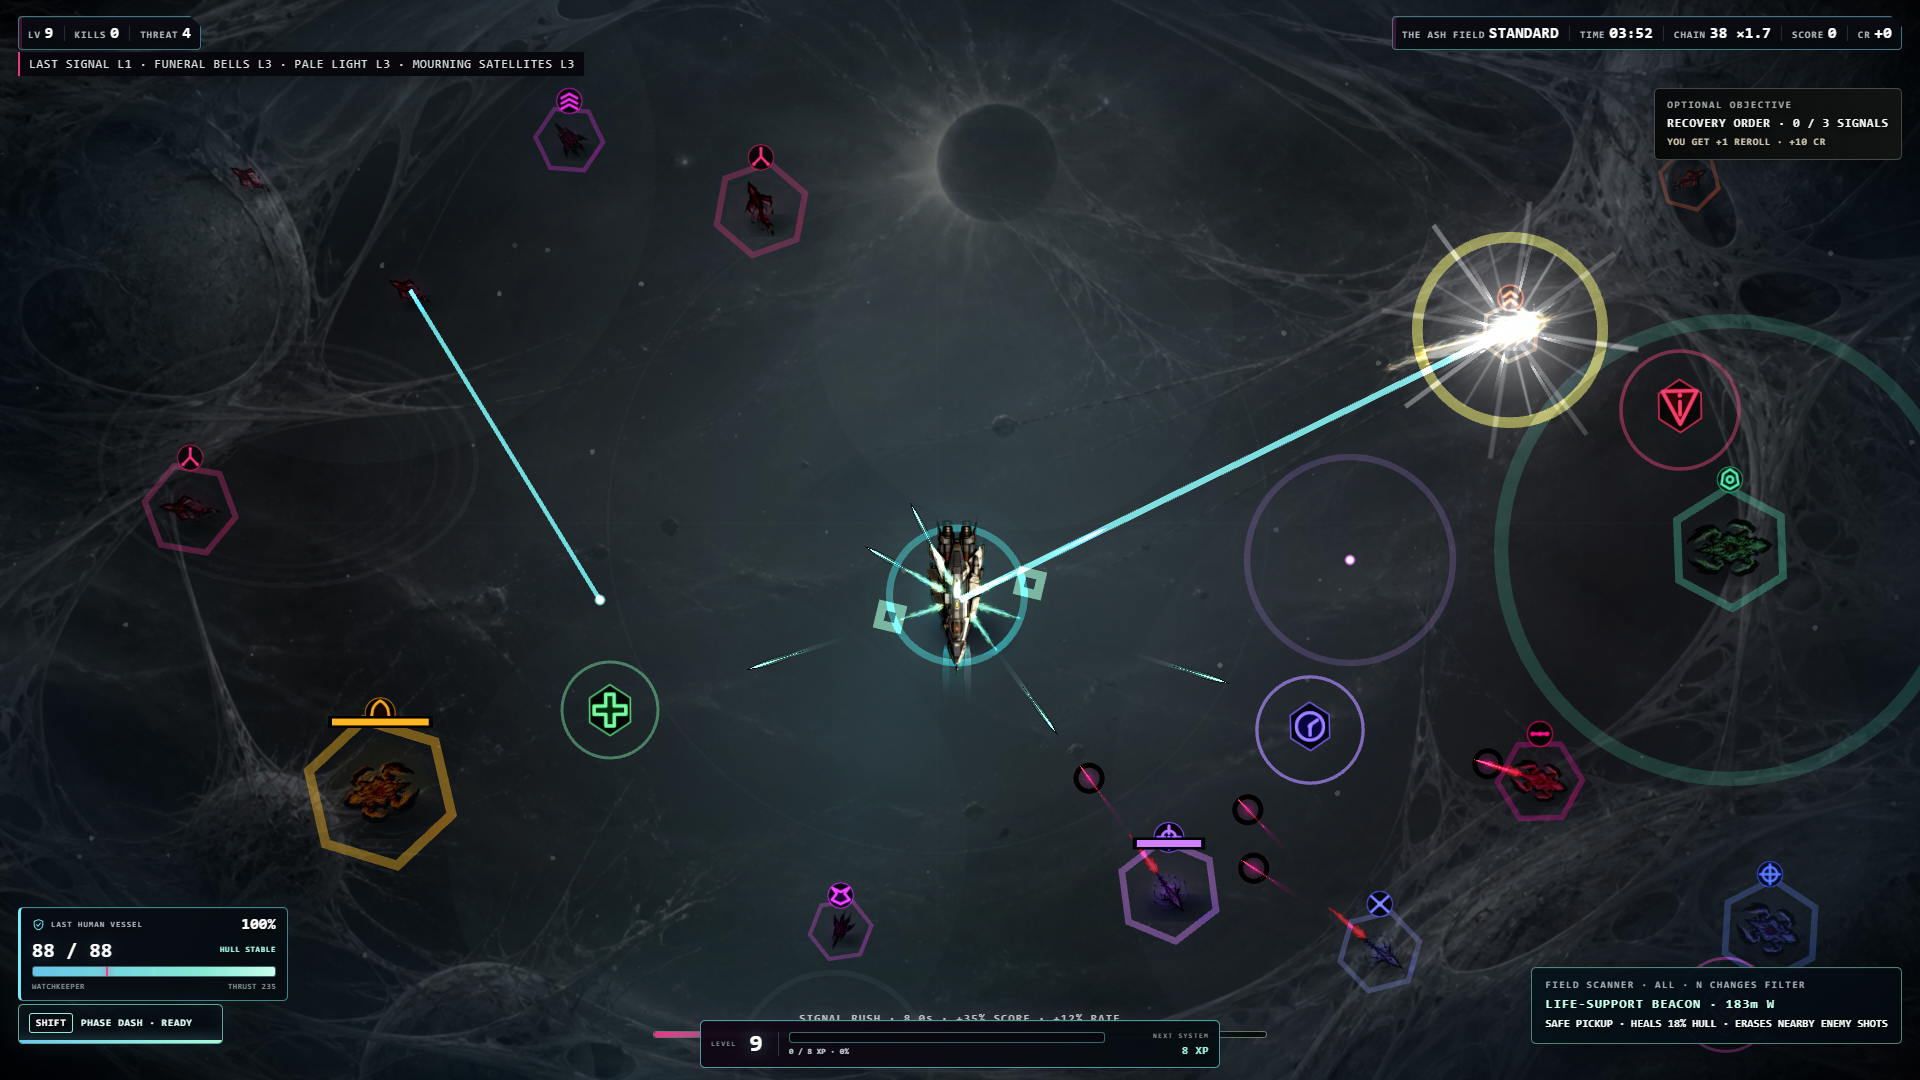
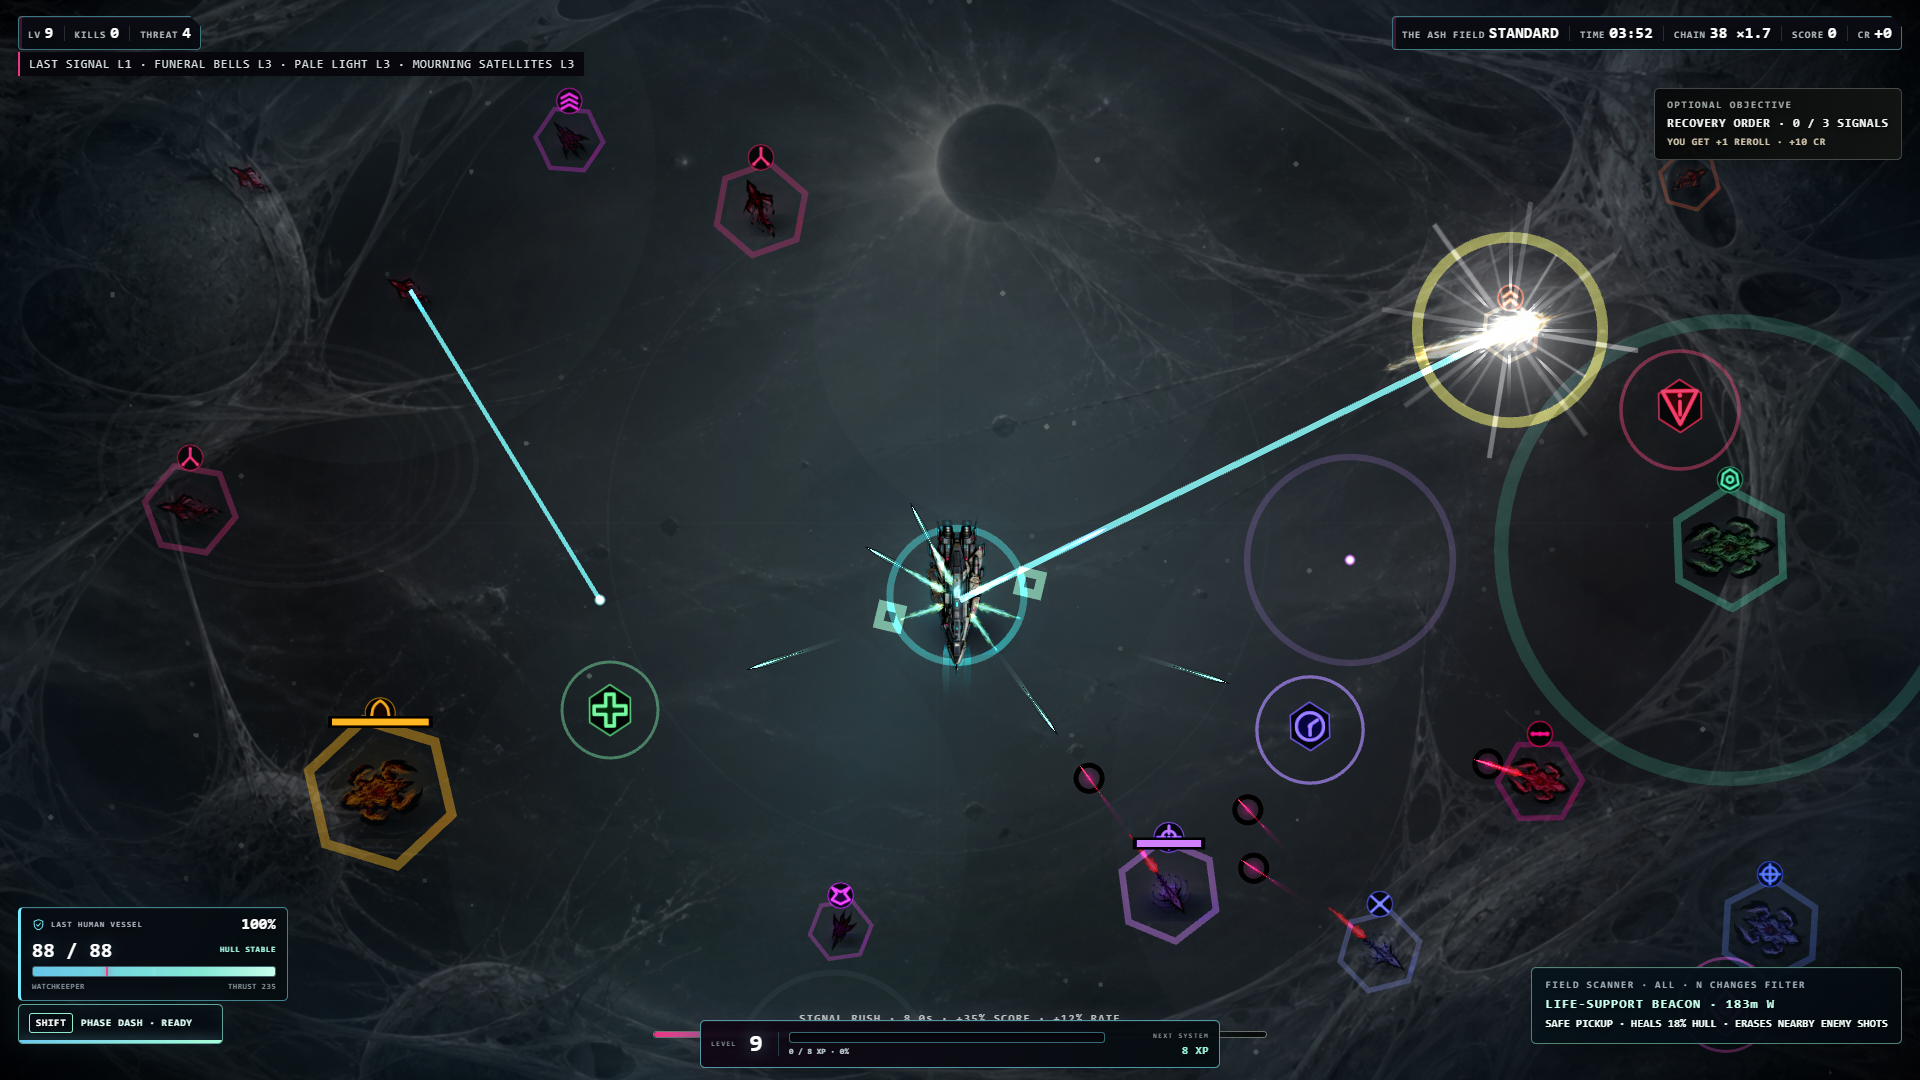
feat: align player vessel with combat palette

diff --git a/game.js b/game.js
@@ -68,7 +68,7 @@ const ARCHIVE_FRAGMENTS=[
 ];
 const ENGINE_ASSETS={
   backgrounds:{deep:'assets/visuals/background-dead-universe-v1.png',pulsar:'assets/visuals/background-dead-universe-v1.png',rift:'assets/visuals/background-alien-veil-v1.png',eclipse:'assets/visuals/background-dead-universe-v1.png',graveyard:'assets/visuals/background-alien-veil-v1.png',supernova:'assets/visuals/background-alien-veil-v1.png'},
-  player:'assets/visuals/player-last-ark-v1.png',
+  player:'assets/visuals/player-last-ark-v2.png',
   enemies:{scout:'assets/visuals/enemy-void-larva-v1.png',charger:'assets/visuals/enemy-void-larva-v1.png',tank:'assets/visuals/enemy-ossuary-v1.png',gunner:'assets/visuals/enemy-ossuary-v1.png',splitter:'assets/visuals/enemy-void-larva-v1.png',sniper:'assets/visuals/enemy-witness-v1.png',stalker:'assets/visuals/enemy-hunter-v2.png',weaver:'assets/visuals/enemy-witness-v1.png',warden:'assets/visuals/enemy-ossuary-v1.png',reaper:'assets/visuals/enemy-hunter-v2.png',harrower:'assets/visuals/enemy-witness-v1.png',moth:'assets/visuals/enemy-hunter-v2.png',anchor:'assets/visuals/enemy-ossuary-v1.png'},
   boss:'assets/visuals/boss-conquest-leviathan-v1.png',
   audio:{
@@ -431,11 +431,11 @@ function checkMetaAchievements(){
 
 // ---------- MENU / SETTINGS ----------
 const HANGAR_PALETTES={
-  striker:{main:'#d8ded8',edge:'#087f86',accent:'#32eee0'},bastion:{main:'#d6ccb4',edge:'#8f5d25',accent:'#ffae32'},
-  wraith:{main:'#d4c1c9',edge:'#852951',accent:'#ff357f'},specter:{main:'#cbd1b8',edge:'#5f7d29',accent:'#b9f447'},
-  bulwark:{main:'#d7c8b8',edge:'#9a492e',accent:'#ff7045'},oracle:{main:'#c8c2d3',edge:'#694d8d',accent:'#a873ff'},
-  vector:{main:'#d6bcc6',edge:'#9c234c',accent:'#ff236d'},talon:{main:'#d5c8ae',edge:'#8d6925',accent:'#ffc13d'},
-  halo:{main:'#cabfd3',edge:'#6d438c',accent:'#c167ff'},event:{main:'#c5d0cc',edge:'#13727b',accent:'#29e4f2'}
+  striker:{main:'#aeb9bc',edge:'#167f86',accent:'#35efff'},bastion:{main:'#a8b1ae',edge:'#356f6d',accent:'#67d6c0'},
+  wraith:{main:'#aaaeb7',edge:'#852951',accent:'#ff357f'},specter:{main:'#a7b5b3',edge:'#286e72',accent:'#4fd0c6'},
+  bulwark:{main:'#adb0b4',edge:'#77374b',accent:'#ff5a70'},oracle:{main:'#aaa9b8',edge:'#604b87',accent:'#a873ff'},
+  vector:{main:'#adb0b8',edge:'#8c2855',accent:'#ff236d'},talon:{main:'#a9b4ba',edge:'#256a7f',accent:'#62deff'},
+  halo:{main:'#aaa9b7',edge:'#65468a',accent:'#c167ff'},event:{main:'#a8b6b7',edge:'#176b75',accent:'#29e4f2'}
 };
 const HANGAR_HULL_ASSET=ENGINE_ASSETS.player;
 let hangarHullImage=null,hangarHullImageReady=false,hangarHullImageFailed=false,hangarHullRefreshQueued=false;
@@ -827,7 +827,7 @@ $('briefingMenuBtn').onclick=previewPilotBriefing;
 function startRun(){
   cancelResumeCountdown(false);
   const frame=SHIPS[save.selected],diff=DIFFICULTIES[save.difficulty]||DIFFICULTIES.STANDARD,contract=CONTRACTS[save.contract]||CONTRACTS.NONE,sector=SECTORS[save.sector]||SECTORS.AURORA,now=performance.now(),mastery=masteryLevel(save.selected),directiveId=selectFieldDirective();
-  const p={x:W/2,y:H/2,r:10,baseSpeed:frame.speed,speed:frame.speed,baseHp:frame.hp,maxHp:frame.hp,hp:frame.hp,frame:save.selected,baseArmor:frame.armor,moduleArmor:0,baseDamageMul:frame.damage,damageMul:frame.damage,baseCooldownMul:1/frame.fire,cooldownMul:1/frame.fire,projectileMul:1,baseCrit:frame.crit,crit:frame.crit,critDamageBonus:0,magnet:78,baseMagnet:78,convertChance:0,allyCap:0,allyLifeMul:1,allyDamageMul:1,allyFireMul:1,allyExplosion:0,areaMul:1,specialMul:1,extraProjectiles:0,hitFlash:0,iFrames:0,incomingMul:1,scoreMul:1,creditMul:1,cacheLuck:0,grazeRadius:13,blackBox:false,grazeOverclock:false,deadReckoning:false,weaponMul:{},iffDoctrine:1,overdriveDurationMul:1,brink:false,trait:frame.trait,reactiveCooldown:0,droneBonus:0,moving:false,dashCooldown:0,dashFx:0,dashFromX:W/2,dashFromY:H/2,dashToX:W/2,dashToY:H/2,weaponKick:0,weaponAngle:-Math.PI/2,_lastMoveX:0,_lastMoveY:-1};
+  const framePalette=hangarShipPalette(save.selected),p={x:W/2,y:H/2,r:10,baseSpeed:frame.speed,speed:frame.speed,baseHp:frame.hp,maxHp:frame.hp,hp:frame.hp,frame:save.selected,visualAccent:framePalette.accent,visualEdge:framePalette.edge,baseArmor:frame.armor,moduleArmor:0,baseDamageMul:frame.damage,damageMul:frame.damage,baseCooldownMul:1/frame.fire,cooldownMul:1/frame.fire,projectileMul:1,baseCrit:frame.crit,crit:frame.crit,critDamageBonus:0,magnet:78,baseMagnet:78,convertChance:0,allyCap:0,allyLifeMul:1,allyDamageMul:1,allyFireMul:1,allyExplosion:0,areaMul:1,specialMul:1,extraProjectiles:0,hitFlash:0,iFrames:0,incomingMul:1,scoreMul:1,creditMul:1,cacheLuck:0,grazeRadius:13,blackBox:false,grazeOverclock:false,deadReckoning:false,weaponMul:{},iffDoctrine:1,overdriveDurationMul:1,brink:false,trait:frame.trait,reactiveCooldown:0,droneBonus:0,moving:false,dashCooldown:0,dashFx:0,dashFromX:W/2,dashFromY:H/2,dashToX:W/2,dashToY:H/2,weaponKick:0,weaponAngle:-Math.PI/2,_lastMoveX:0,_lastMoveY:-1};
   applyResearchToPlayer(p);p.baseSpeed*=1.06*(contract.playerSpeed||1);p.speed=p.baseSpeed;p.baseHp*=contract.hull||1;p.baseHp*=sector.hull||1;p.maxHp=p.baseHp;p.hp=p.maxHp;p.baseCrit+=contract.crit||0;p.crit=p.baseCrit;p.cacheLuck+=(contract.cacheLuck||0)+(sector.cacheLuck||0);p.grazeRadius+=sector.graze||0;p.scoreMul*=sector.score||1;if(save.selected==='bulwark'){p.droneBonus=1;p.allyCap+=1}if(save.selected==='oracle')p.iffDoctrine*=1.25;
   state={mode:'run',diff,contract,sector,sectorId:save.sector,contractId:save.contract,difficulty:save.difficulty,time:0,last:now,paused:false,choosing:false,choiceMode:'',ceremony:false,ceremonyQueue:[],enemyIntelQueue:[],enemyIntelShown:0,nextEnemyIntel:18,gameOver:false,victory:false,clearedBase:false,endless:false,ascension:0,nextEndlessBoss:0,revived:false,finalizing:false,worldX:0,worldY:0,distanceTraveled:0,generatedCells:new Set(),worldSites:[],worldNodes:[],signalFilter:'ALL',directiveId,directiveComplete:false,explorationFinds:0,archiveFragments:0,archiveOpen:false,archiveXpPending:0,hazardFinds:0,fieldBoostUntil:0,interferenceUntil:0,runCredits:0,kills:0,score:0,spawnT:0,eliteT:36,bossStage:0,level:1,xp:0,xpNeed:8,rerolls:1+(save.research.reroll||0)+(mastery>=4?1:0),skips:1+(mastery>=2?1:0),currentOffers:[],pinnedOfferKey:'',upgradeHistory:[],runCounted:false,accountedKills:0,accountedCredits:0,accountedMastery:0,accountedEndlessTime:0,accountedStats:{damageDealt:0,damageTaken:0,bossesKilled:0,grazes:0,time:0,cachesOpened:0,reliquariesOpened:0,distanceTraveled:0},masteryStartLevel:mastery,clearCounted:false,threat:1,chain:0,chainBest:0,chainTimer:0,rush:0,rushActivations:0,rushKills:0,rushBest:0,salvageSweep:0,nextBounty:65,bounty:null,nextAnomaly:115,nextSecret:(145+Math.random()*45)/(sector.secret||1),nextNemesis:350,nemesisKilled:0,redline:false,overdrive:0,driveTier:0,grazeChain:0,grazeBest:0,grazeTimer:0,grazes:0,cachesOpened:0,conversions:0,evolutions:0,doctrines:{},doctrinePicks:0,pendingLevelAfterDoctrine:false,damageDealt:0,damageTaken:0,bossesKilled:0,flawlessBosses:0,secretEvents:0,phaseRipostes:0,encounterPhase:'OPENING',spawnEncounterPhase:'OPENING',encounterIntensity:.18,encounterSurges:0,encounterWaveIndex:0,weaponDamage:{},noHit:true,newUnlocks:[],protocols:{},artifacts:{},synergies:{},hitStop:0,critFxCooldown:0,surgeUntil:0,lockedTarget:null,targetLockPulse:0,p,passives:{},weapons:{},enemies:[],bullets:[],enemyBullets:[],orbs:[],caches:[],mines:[],rifts:[],allies:[],particles:[],floaters:[],deathFx:[],impactFx:[],weaponFx:[],arcs:[],beams:[],shake:0,stars:Array.from({length:110},()=>({x:Math.random()*W,y:Math.random()*H,z:1+Math.random()*2,phase:Math.random()*Math.PI*2}))};
   state.reliquaryOpen=false;state.reliquariesOpened=0;state.timeFractureRemaining=0;state.timeFractures=0;state.fractureKills=0;state.fractureWasActive=false;state.preBossWarningStage=-1;

diff --git a/tests/smoke.js b/tests/smoke.js
@@ -3,7 +3,7 @@ const root=path.join(__dirname,'..');
 const html=fs.readFileSync(path.join(root,'index.html'),'utf8');
 const requiredAssets=[
   'assets/visuals/background-dead-universe-v1.png','assets/visuals/background-alien-veil-v1.png',
-  'assets/visuals/player-last-ark-v1.png','assets/visuals/enemy-void-larva-v1.png','assets/visuals/enemy-ossuary-v1.png','assets/visuals/enemy-witness-v1.png','assets/visuals/boss-conquest-leviathan-v1.png',
+  'assets/visuals/player-last-ark-v2.png','assets/visuals/enemy-void-larva-v1.png','assets/visuals/enemy-ossuary-v1.png','assets/visuals/enemy-witness-v1.png','assets/visuals/boss-conquest-leviathan-v1.png',
   'assets/audio/professional/lentikula/pulse-a.wav','assets/audio/professional/lentikula/pulse-b.wav','assets/audio/professional/lentikula/rail.wav','assets/audio/professional/lentikula/flak.wav','assets/audio/professional/lentikula/rift.wav','assets/audio/professional/lentikula/hostile-heavy.wav','assets/audio/professional/obsydianx/ui-confirm.wav','assets/audio/professional/obsydianx/ui-reward.wav','assets/audio/professional/opengameart/mechanical-explosion.wav','assets/audio/professional/opengameart/low-explosion.wav','assets/audio/sub_bass.wav','assets/audio/engine_loop.wav',
   'assets/audio/premium/music-exploration-space-city.mp3','assets/audio/premium/music-exploration-spirit.mp3','assets/audio/premium/music-combat-synth-wave.mp3','assets/audio/premium/music-combat-score.mp3','assets/audio/premium/music-boss-cybershaman.flac','assets/audio/premium/music-boss-xanthos.mp3','assets/audio/premium/music-last-human-dystopian-ambient.mp3'
 ];
@@ -43,6 +43,7 @@ vm.runInContext(`
   if(!document.getElementById('difficultyDesc').textContent.includes('BEST FIRST RUN')||!document.getElementById('sectorDesc').textContent.includes('STANDARD RESOURCES')||!document.getElementById('frameWeaponDesc').textContent.includes('RAPID FORWARD SHOTS'))throw new Error('main menu info boxes do not explain player outcomes');
   if(selectFieldDirective()!=='recovery') throw new Error('first directive rotation is incorrect');save.runs=1;if(selectFieldDirective()!=='transit') throw new Error('second directive rotation is incorrect');save.runs=2;if(selectFieldDirective()!=='attrition') throw new Error('third directive rotation is incorrect');save.runs=0;startRun();
   save.briefingSeen=false;if(!openPilotBriefing()||!state.paused||!document.getElementById('briefingScreen').classList.contains('show'))throw new Error('first-deployment briefing did not suspend the run');if(!dismissPilotBriefing()||state.paused||!save.briefingSeen||document.getElementById('briefingScreen').classList.contains('show'))throw new Error('first-deployment briefing did not persist completion');
+  if(state.p.visualAccent!==HANGAR_PALETTES[state.p.frame].accent||state.p.visualEdge!==HANGAR_PALETTES[state.p.frame].edge)throw new Error('deployed frame effects do not match the hangar palette');
   const exitProbe=desktopExitState();if(!exitProbe.active||exitProbe.frame!=='WATCHKEEPER')throw new Error('desktop exit state did not identify the active run');document.getElementById('briefingResetBtn').onclick();if(save.briefingSeen)throw new Error('briefing replay control did not arm the next run');save.briefingSeen=true;
   state.p.iFrames=9999;
   const openingPopulationCap=enemyPopulationCap(false,false),savedPopulation=state.enemies;if(openingPopulationCap<98||openingPopulationCap>110||openingPopulationCap>=MAX_ENEMIES)throw new Error('opening encounter population budget is invalid');const openingRhythm=encounterRhythm(5),surgeRhythm=encounterRhythm(40),releaseRhythm=encounterRhythm(50),bossRhythm=encounterRhythm(210,true,false);if(openingRhythm.phase!=='OPENING'||surgeRhythm.phase!=='SURGE'||surgeRhythm.density<=1||releaseRhythm.phase!=='RELEASE'||releaseRhythm.density>=1||bossRhythm.phase!=='BOSS')throw new Error('encounter rhythm does not provide build, surge, release, and boss phases');state.enemies=Array.from({length:openingPopulationCap},()=>({dead:false,boss:false}));if(spawnEnemyGroup(6).length!==0)throw new Error('encounter director exceeded its active population budget');state.enemies=[];state.time=30;state.spawnT=0;const densityRandom=Math.random;Math.random=()=>0;spawnWave(.1);Math.random=densityRandom;if(state.enemies.length!==2||state.encounterPhase!=='BUILD')throw new Error('opening encounter cadence did not admit an early hostile pair');state.enemies=savedPopulation;state.time=0;state.spawnT=0;
